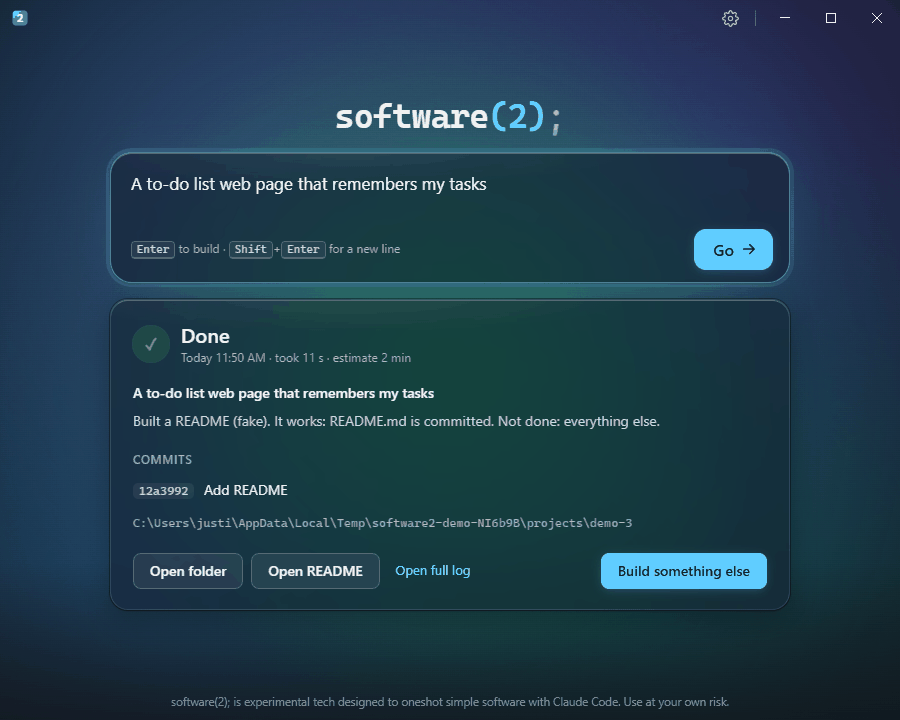
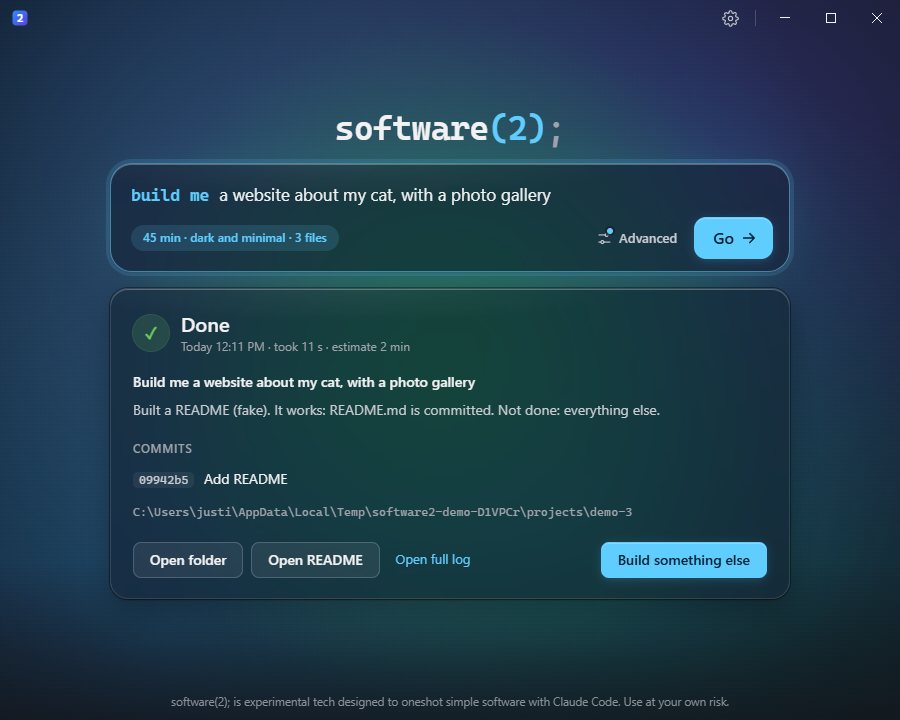
README and notes for the build-me box and Advanced; refreshed screenshots

diff --git a/README.md b/README.md
@@ -2,7 +2,7 @@
 
 `software(2);`
 
-A proof-of-concept Windows app with one text box. You type the software you want,
+A proof-of-concept Windows app with one text box that reads "build me [ ... ]". You type the software you want,
 the app asks Claude Code for a quick time estimate, you confirm and pick a new
 folder, and Claude Code builds it in one go, headless, with local git only.
 
@@ -14,7 +14,8 @@ real Claude Code is still to be done.
 
 **Real builds use your own Claude Code login and count against your own plan's usage**
 (or your API billing, if that is how your Claude Code is signed in). A build can run
-for as long as the time cap in Settings, 30 minutes by default.
+for as long as the time cap in Settings (30 minutes by default), or the max run time set
+for that build under Advanced.
 
 | Start (light theme) | Start (dark theme) |
 | --- | --- |
@@ -22,13 +23,29 @@ for as long as the time cap in Settings, 30 minutes by default.
 
 ## How to use it
 
-1. Type what you want, for example "a to-do list web page", and press **Enter** or
-   **Go** (Shift+Enter starts a new line).
-2. Read the estimate and press **Build it**, then pick or create a new, empty folder.
-3. Watch the status line under the text box: what Claude is doing right now, the time
+1. Finish the sentence "build me ...", for example "a to-do list web page", and press
+   **Enter** or **Go** (Shift+Enter starts a new line). What is sent on is "Build me "
+   plus what you typed.
+2. Optional: **Advanced** (the sliders button next to Go) opens a small panel for this
+   build only. It is closed whenever the app opens and nothing in it is saved:
+   - **Max run time**, 5 to 120 minutes. Empty: the build time cap from Settings.
+   - **Design style**, in your own words ("dark and minimal", "like a 90s website").
+     It goes to the estimate and to the build as the design direction; empty lets
+     Claude choose.
+   - **Files**: drop them anywhere on the window or use **Add files**; folders are
+     refused, and they can add up to 200 MB. They are copied into an `assets` folder in
+     the new project (names kept, clashes numbered) and committed before Claude starts,
+     and Claude is told they are yours to use in the project (photos of your cat for a
+     cat website, say). The estimate only hears their names, types and sizes. The app
+     only copies them: it never opens or uploads them anywhere.
+
+   When anything is set, a chip in the box says so ("45 min · dark and minimal ·
+   3 files"), with the panel open or closed. **Build something else** clears it.
+3. Read the estimate and press **Build it**, then pick or create a new, empty folder.
+4. Watch the status line under the text box: what Claude is doing right now, the time
    against the estimate and a thin progress bar. **Stop** kills the build at any time;
    the time cap kills it too.
-4. When it ends you get Claude's summary, the git commits it made, **Open folder**,
+5. When it ends you get Claude's summary, the git commits it made, **Open folder**,
    **Open README**, **Open full log** (to see what went wrong in a failed run) and
    **Build something else**. There is no history of past builds: their folders stay
    where you put them.
@@ -42,6 +59,10 @@ minimised; idle, it uses about a tenth of one CPU core.
 
 The window has its own slim title bar (drag it, double-click to maximise, snap works).
 **Escape** closes Settings and cancels the estimate card.
+
+| Advanced, open (light theme) | Advanced, open (dark theme) |
+| --- | --- |
+| ![The Advanced panel with a run time, a design style and three files](docs/screenshots/light-advanced.png) | ![The Advanced panel, dark](docs/screenshots/dark-advanced.png) |
 
 | Estimate | Building |
 | --- | --- |
@@ -70,19 +91,23 @@ to work around it. Some builds will not finish that way.
 
 1. **Estimate** (60 s cap, spinner with the elapsed time): runs
    `claude -p --output-format json --tools "" --strict-mcp-config --no-session-persistence`
-   in a temporary empty folder, so Claude can only answer, not act. It replies with JSON:
+   in a temporary empty folder, so Claude can only answer, not act. The prompt has the
+   request, the design style and the files' names, types and sizes (never the files).
+   It replies with JSON:
    minutes, summary, stack, steps and risks. Code fences and prose around the JSON are
    fine; if no estimate can be read, the raw reply is shown with Retry.
-2. **Confirm**: a card with the summary, stack, steps, "About N minutes", the build time
-   cap and, if the permission-skip setting is on, a warning. "Build it" or "Cancel".
+2. **Confirm**: a card with the summary, stack, steps, "About N minutes", the design
+   style and number of files if set, the time cap for this build and, if the
+   permission-skip setting is on, a warning. "Build it" or "Cancel".
 3. **Folder**: a folder dialog opens at the default folder. Pick or create a new, empty
    folder; a non-empty one is refused. It gets `git init` and an empty first commit.
-4. **Build** (time cap from Settings): runs
+   Files from Advanced are then copied into `assets` and committed.
+4. **Build** (time cap from Advanced, else from Settings): runs
    `claude -p --output-format stream-json --verbose` in the project folder, plus either
    `--dangerously-skip-permissions` or
    `--permission-mode acceptEdits --allowedTools "Bash(npm *)" ...` (see above). The
    prompt goes in through stdin and comes from `prompts/build.md`: the request word for
-   word, the estimate as a plan, and the rules (only this folder, no questions, commit
+   word, the design direction, the files in `assets`, the estimate as a plan, and the rules (only this folder, no questions, commit
    after each step, a README, run the tests, end with a summary). Edit that file to
    change what Claude is told; it is read at every build.
 5. **Status line**: one sentence for what Claude is doing now, taken from the stream:
@@ -124,8 +149,9 @@ stand-in for the CLI, never the real one.
 Off by default. `SOFTWARE2_DEMO=1` runs the window against `test/fake-claude.mjs`, with
 a throwaway data folder in `%TEMP%\software2-demo-*` (your real settings are not
 touched) and no folder dialog. `SOFTWARE2_SHOTS=<folder>` also walks through every
-state (empty, estimating, confirm, building, done, Settings, a failed build, the smallest
-window, reduced motion) in light and dark, saves a PNG of each into that folder, writes
+state (empty, the Advanced panel with three made-up sample files, open and closed,
+estimating, confirm, building, done, Settings, a failed build, the smallest window,
+reduced motion) in light and dark, saves a PNG of each into that folder, writes
 the idle CPU use (window shown, minimised, reduced motion) to `cpu-idle.txt` there and
 quits. Page errors and warnings are printed in the terminal. In Git Bash, after `npm run build`:
 
@@ -156,6 +182,7 @@ src/main/main.ts        Electron main process: window, IPC, settings, Go/Stop
 src/main/runner.ts      runClaude(): spawn the CLI, stream lines, Stop, time cap
 src/main/settings.ts    load/save settings.json, find claude on PATH
 src/main/flow.ts        Go: estimate -> confirm -> folder -> build (Electron bits passed in)
+src/main/advanced.ts    Advanced: run time, design style, files (checks, copy into assets/)
 src/main/estimate.ts    the estimate run and parsing its JSON reply
 src/main/project.ts     the empty-folder check and git init
 src/main/build.ts       runBuild(): the build run, its flags and its prompt

diff --git a/CLAUDE.md b/CLAUDE.md
@@ -29,4 +29,6 @@ Electron + TypeScript, plain HTML/CSS renderer, Windows only. See README.md for 
 - The window is frameless (`frame: false`): the title bar is `.titlebar` in index.html, `-webkit-app-region: drag` on the bar and `no-drag` on its buttons; window buttons go through `window:control` IPC.
 - `src/renderer/background.ts` loads before renderer.ts and exposes one global, `backdrop` (`setScene`, `setProgress`); the renderer calls `setScene` at each state change. Keep the canvas at full size: a scaled-up small canvas shows the gradient dithering as a grid and costs no less.
 - Shots mode turns off Chromium's window-occlusion detection so the idle CPU figure is taken with the background running; use `cumulativeCPUUsage` for CPU (`percentCPUUsage` is divided by the core count).
+- The request is "Build me " + what was typed (`buildMeRequest()` in flow.ts). Advanced's options travel with `estimate()` and are re-checked in main (`checkOptions()` in `src/main/advanced.ts`); the renderer's copies of the limits (5-120 min, 200 MB) must match it. Advanced is never saved, on purpose.
+- Supplied files are copied into `assets/` and committed after git init, so the build's commit list (from HEAD at build start) leaves that commit out. The estimate gets names/types/sizes only; `FAKE_CLAUDE_PROMPT_FILE` lets tests read the prompt the fake got.
 - After editing `assets/icon.svg`, rerun `node_modules/electron/dist/electron.exe scripts/make-icon.mjs` for the PNG/ICO.
